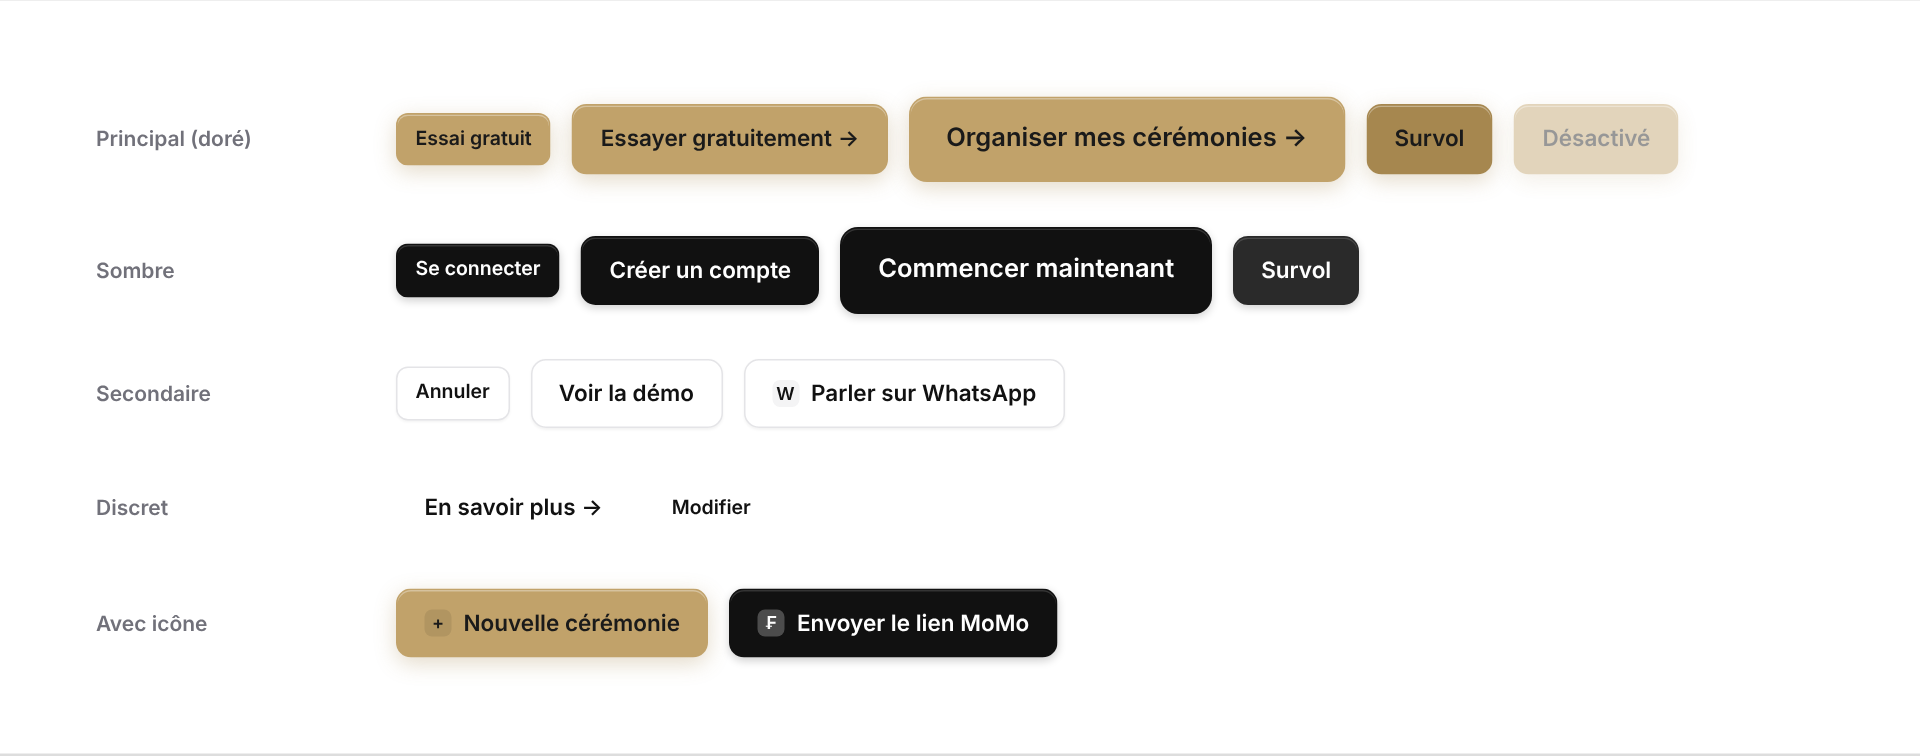
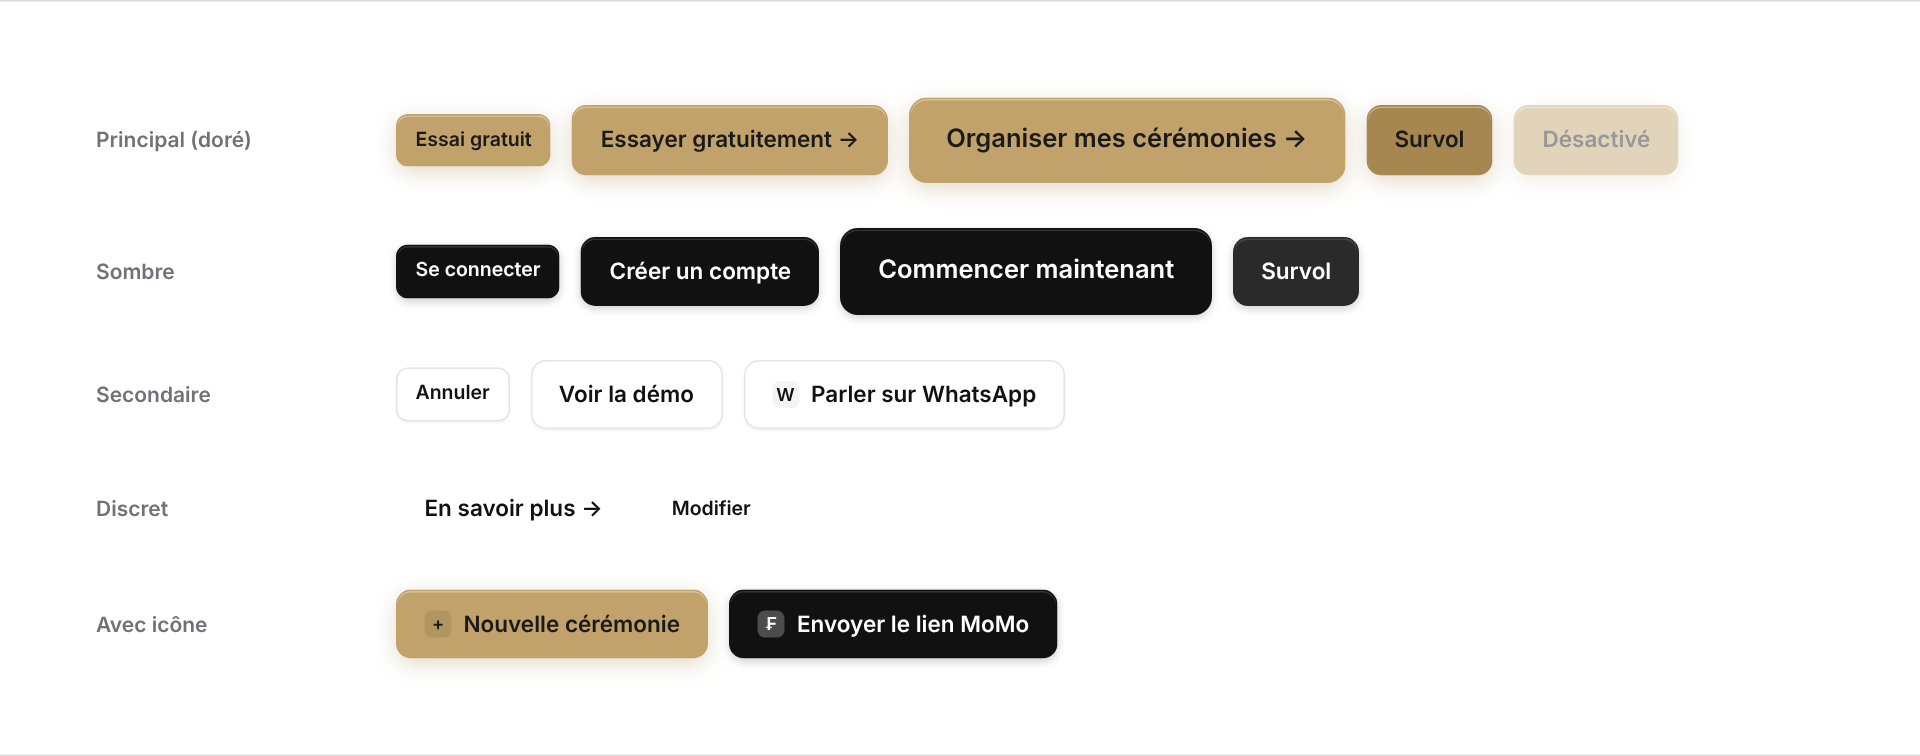
Ajoute le hero façon Framer et les tarifs façon Notion
Claude-Session: https://claude.ai/code/session_018MucsxxBUDKKkiUTaMvb6y

diff --git a/docs/inspirations/styles.html b/docs/inspirations/styles.html
@@ -128,6 +128,66 @@
   .b.disabled { opacity: .45; }
   .b .ic { width: 18px; height: 18px; border-radius: 5px; background: rgba(255,255,255,.25); display: inline-flex; align-items: center; justify-content: center; font-size: 12px; }
   .b.secondary .ic { background: #f4f4f5; } .b.gold .ic { background: rgba(0,0,0,.08); }
+
+  /* ---------- hero-framer : centré, titre géant, badge annonce, grand visuel produit en perspective ---------- */
+  #hero-framer { background: radial-gradient(900px 500px at 50% 0%, #f1e6cb 0%, var(--bg) 60%); padding: 96px 64px 0; text-align: center; overflow: hidden; }
+  .ann { display: inline-flex; align-items: center; gap: 10px; background: #fff; border: 1px solid var(--line); border-radius: 999px; padding: 6px 8px 6px 14px; font-size: 14px; font-weight: 600; box-shadow: 0 2px 8px rgba(60,45,20,.06); margin-bottom: 28px; }
+  .ann b { background: var(--ink); color: #fff; border-radius: 999px; padding: 3px 10px; font-size: 12px; }
+  #hero-framer h1 { font-size: 84px; line-height: 1; letter-spacing: -0.045em; font-weight: 800; max-width: 1000px; margin: 0 auto; }
+  #hero-framer h1 em { font-style: normal; background: linear-gradient(90deg, #a6874f, #d6b77a, #a6874f); -webkit-background-clip: text; background-clip: text; color: transparent; }
+  #hero-framer .sub { font-size: 21px; color: var(--muted); max-width: 640px; margin: 24px auto 34px; }
+  .hf-btns { display: flex; gap: 12px; justify-content: center; margin-bottom: 18px; }
+  .hf-btns .b { padding: 14px 24px; font-size: 16px; border-radius: 12px; }
+  .hf-proof { color: var(--muted); font-size: 14px; display: flex; gap: 18px; justify-content: center; margin-bottom: 64px; }
+  .hf-proof span::before { content: "✓ "; color: var(--gold-d); font-weight: 800; }
+  .stage { position: relative; height: 470px; perspective: 1800px; }
+  .browser { position: absolute; left: 44%; top: 0; width: 980px; transform: translateX(-50%) rotateX(14deg); transform-origin: top center; background: #fff; border: 1px solid var(--line); border-radius: 18px 18px 0 0; box-shadow: 0 -10px 60px rgba(60,45,20,.12), 0 40px 80px rgba(60,45,20,.18); text-align: left; overflow: hidden; }
+  .browser .chrome { height: 40px; border-bottom: 1px solid #f0ebdf; display: flex; align-items: center; gap: 7px; padding: 0 16px; }
+  .browser .chrome i { width: 11px; height: 11px; border-radius: 50%; background: #e7e0d0; }
+  .browser .chrome span { margin-left: 16px; background: #f6f3ec; border-radius: 8px; padding: 4px 14px; font-size: 12px; color: var(--muted); }
+  .app { display: grid; grid-template-columns: 190px 1fr; min-height: 440px; }
+  .app aside { background: #fbf9f4; border-right: 1px solid #f0ebdf; padding: 18px 14px; font-size: 13px; }
+  .app aside .lg { font-weight: 800; display: flex; gap: 8px; align-items: center; margin-bottom: 20px; } .app aside .lg span { width: 22px; height: 22px; border-radius: 7px; background: var(--gold); display: inline-flex; align-items: center; justify-content: center; font-size: 11px; }
+  .app aside a { display: block; padding: 8px 10px; border-radius: 8px; color: var(--muted); margin-bottom: 2px; } .app aside a.on { background: #f1e9d6; color: var(--ink); font-weight: 600; }
+  .app main { padding: 22px 24px; }
+  .app main h5 { font-size: 18px; margin-bottom: 14px; }
+  .kpis { display: grid; grid-template-columns: repeat(3, 1fr); gap: 12px; margin-bottom: 16px; }
+  .kpi { border: 1px solid #f0ebdf; border-radius: 12px; padding: 12px 14px; font-size: 12px; color: var(--muted); } .kpi b { display: block; font-size: 22px; color: var(--ink); letter-spacing: -0.02em; }
+  .list .it { display: grid; grid-template-columns: 70px 1fr auto; gap: 12px; align-items: center; padding: 10px 0; border-top: 1px solid #f3efe5; font-size: 13px; }
+  .list .d { background: #f6f1e4; border-radius: 10px; text-align: center; padding: 6px 0; font-weight: 700; font-size: 12px; } .list .d small { display: block; font-weight: 500; color: var(--muted); }
+  .list small.m { display: block; color: var(--muted); }
+  .mini-phone { position: absolute; right: 30px; top: 60px; width: 210px; height: 400px; background: #1a1a1a; border-radius: 32px; padding: 9px; box-shadow: 0 30px 60px rgba(40,30,10,.35); text-align: left; }
+  .mini-phone .scr { background: var(--bg); border-radius: 24px; height: 100%; padding: 18px 12px; font-size: 11px; }
+  .mini-phone .notif { background: #fff; border: 1px solid #f0dca6; border-radius: 14px; padding: 10px; margin-bottom: 10px; box-shadow: 0 6px 16px rgba(60,45,20,.08); }
+  .mini-phone .notif b { display: block; font-size: 12px; }
+
+  /* ---------- pricing-notion : sobre, cartes blanches côte à côte, tableau comparatif ---------- */
+  #pricing-notion { background: #fff; padding: 96px 120px; }
+  #pricing-notion .head { text-align: center; margin-bottom: 44px; }
+  #pricing-notion .head .fd { display: inline-block; font-size: 13px; font-weight: 700; background: #f3ecdc; color: var(--gold-d); border-radius: 999px; padding: 5px 12px; margin-bottom: 16px; }
+  #pricing-notion .head h2 { font-size: 48px; }
+  #pricing-notion .head p { color: var(--muted); font-size: 18px; margin-top: 10px; }
+  .pn-grid { display: grid; grid-template-columns: repeat(3, 1fr); gap: 0; border: 1px solid #e9e9e7; border-radius: 16px; overflow: hidden; }
+  .pn { padding: 30px 28px; border-right: 1px solid #e9e9e7; position: relative; }
+  .pn:last-child { border-right: none; }
+  .pn.rec { background: #fffcf4; }
+  .pn .ico { width: 36px; height: 36px; border-radius: 10px; background: #f4f2ee; display: inline-flex; align-items: center; justify-content: center; font-size: 18px; margin-bottom: 14px; }
+  .pn.rec .ico { background: var(--gold); }
+  .pn h3 { font-size: 20px; display: flex; align-items: center; gap: 10px; }
+  .pn h3 .rtag { font-size: 11px; font-weight: 700; background: var(--ink); color: #fff; border-radius: 6px; padding: 3px 8px; }
+  .pn .desc { color: #787774; font-size: 14px; margin: 6px 0 20px; min-height: 42px; }
+  .pn .pr { display: flex; align-items: baseline; gap: 8px; } .pn .pr b { font-size: 36px; letter-spacing: -0.03em; } .pn .pr s { color: #9b9a97; }
+  .pn .per { color: #787774; font-size: 13px; margin-bottom: 20px; }
+  .pn .b { width: 100%; justify-content: center; margin-bottom: 22px; }
+  .pn ul { list-style: none; font-size: 14px; display: grid; gap: 9px; color: #37352f; }
+  .pn li::before { content: "✓"; margin-right: 9px; color: var(--gold-d); font-weight: 800; }
+  .pn .inc { font-size: 13px; font-weight: 600; color: #787774; margin-bottom: 10px; }
+  .cmp { margin-top: 48px; width: 100%; border-collapse: collapse; font-size: 14px; }
+  .cmp th { text-align: left; font-size: 13px; color: #787774; font-weight: 600; padding: 10px 12px; border-bottom: 1px solid #e9e9e7; }
+  .cmp th:not(:first-child), .cmp td:not(:first-child) { text-align: center; width: 22%; }
+  .cmp td { padding: 12px; border-bottom: 1px solid #f1f1ef; color: #37352f; }
+  .cmp .sec td { font-weight: 700; padding-top: 22px; color: var(--ink); border-bottom: 1px solid #e9e9e7; }
+  .cmp .y { color: var(--gold-d); font-weight: 800; } .cmp .n { color: #c7c6c3; }
 </style>
 </head>
 <body>
@@ -231,6 +291,59 @@
     <div class="lbl">Discret</div><div class="bt-row"><span class="b ghost">En savoir plus →</span><span class="b ghost sm">Modifier</span></div>
     <div class="lbl">Avec icône</div><div class="bt-row"><span class="b gold"><span class="ic">+</span>Nouvelle cérémonie</span><span class="b primary"><span class="ic">₣</span>Envoyer le lien MoMo</span></div>
   </div>
+</div>
+
+
+<!-- SECTION : hero (style Framer) -->
+<div class="block" id="hero-framer">
+  <span class="ann">Nouveau : paiements MTN MoMo et Moov Money <b>Découvrir →</b></span>
+  <h1>Vos cérémonies, <em>enfin sous contrôle</em></h1>
+  <p class="sub">Réservations, devis, matériel, équipe et acomptes MoMo. L'outil des décorateurs, loueurs et traiteurs du Bénin.</p>
+  <div class="hf-btns"><span class="b gold">Essayer gratuitement 30 jours →</span><span class="b secondary">Voir la démo</span></div>
+  <div class="hf-proof"><span>Sans engagement</span><span>Sur téléphone</span><span>Support WhatsApp</span></div>
+  <div class="stage">
+    <div class="browser">
+      <div class="chrome"><i></i><i></i><i></i><span>app.lokafete.com</span></div>
+      <div class="app">
+        <aside><div class="lg"><span>✦</span>Lokafête</div><a class="on">Planning</a><a>Cérémonies</a><a>Devis</a><a>Matériel</a><a>Paiements</a><a>Équipe</a></aside>
+        <main><h5>Octobre</h5>
+          <div class="kpis"><div class="kpi">Cérémonies ce mois<b>12</b></div><div class="kpi">Encaissé<b>1 840 000 F</b></div><div class="kpi">À recevoir<b>420 000 F</b></div></div>
+          <div class="list">
+            <div class="it"><div class="d">SAM<small>11</small></div><div><b>Mariage — famille A.</b><small class="m">Décoration blanc et or · 300 invités · Cotonou</small></div><span class="st ok">Avance reçue</span></div>
+            <div class="it"><div class="d">SAM<small>11</small></div><div><b>Funérailles — famille K.</b><small class="m">200 chaises · 4 bâches · Abomey-Calavi</small></div><span class="st wait">Solde à recevoir</span></div>
+            <div class="it"><div class="d">DIM<small>12</small></div><div><b>Baptême — famille D.</b><small class="m">Traiteur · 80 invités · Porto-Novo</small></div><span class="st ok">Payé</span></div>
+          </div>
+        </main>
+      </div>
+    </div>
+    <div class="mini-phone"><div class="scr">
+      <div class="notif"><b>Paiement MoMo reçu</b>150 000 F · Avance famille A.</div>
+      <div class="notif"><b>Rappel envoyé</b>Solde famille K. sur WhatsApp</div>
+      <div class="notif"><b>Devis accepté</b>Baptême famille D.</div>
+    </div></div>
+  </div>
+</div>
+
+<!-- SECTION : tarifs (style Notion) -->
+<div class="block" id="pricing-notion">
+  <div class="head"><span class="fd">Offre membre fondateur · 50 places</span><h2>Des week-ends de cérémonies sans stress</h2><p>Payez par MoMo chaque mois. Sans engagement. Prix indicatifs, à valider.</p></div>
+  <div class="pn-grid">
+    <div class="pn"><div class="ico">🎈</div><h3>Essai</h3><p class="desc">Pour découvrir Lokafête avant de vous engager.</p><div class="pr"><b>0 F</b></div><div class="per">pendant 30 jours</div><span class="b secondary">Commencer l'essai</span><div class="inc">Inclus :</div><ul><li>Toutes les fonctions Pro</li><li>Jusqu'à 5 cérémonies</li><li>Aide sur WhatsApp</li></ul></div>
+    <div class="pn"><div class="ico">🪑</div><h3>Essentiel</h3><p class="desc">Pour le prestataire seul, un seul métier.</p><div class="pr"><b>[7 500 F]</b><s>10 000 F</s></div><div class="per">par mois</div><span class="b primary">Choisir Essentiel</span><div class="inc">Inclus :</div><ul><li>Planning et réservations</li><li>Devis et factures PDF</li><li>Paiements MoMo</li><li>Rappels WhatsApp</li></ul></div>
+    <div class="pn rec"><div class="ico">✦</div><h3>Pro <span class="rtag">Recommandé</span></h3><p class="desc">Pour les équipes et les prestataires multi-métiers.</p><div class="pr"><b>[17 500 F]</b><s>25 000 F</s></div><div class="per">par mois</div><span class="b gold">Choisir Pro</span><div class="inc">Tout Essentiel, plus :</div><ul><li>Stock et bons de sortie</li><li>Équipe et affectations</li><li>Bénéfice par cérémonie</li><li>Portfolio partageable</li><li>Support prioritaire</li></ul></div>
+  </div>
+  <table class="cmp">
+    <tr><th>Comparer les offres</th><th>Essai</th><th>Essentiel</th><th>Pro</th></tr>
+    <tr class="sec"><td colspan="4">Organisation</td></tr>
+    <tr><td>Planning et réservations</td><td class="y">✓</td><td class="y">✓</td><td class="y">✓</td></tr>
+    <tr><td>Devis et factures PDF</td><td class="y">✓</td><td class="y">✓</td><td class="y">✓</td></tr>
+    <tr><td>Stock de matériel et bons de sortie</td><td class="y">✓</td><td class="n">—</td><td class="y">✓</td></tr>
+    <tr class="sec"><td colspan="4">Paiements</td></tr>
+    <tr><td>Liens de paiement MoMo</td><td class="y">✓</td><td class="y">✓</td><td class="y">✓</td></tr>
+    <tr><td>Bénéfice par cérémonie</td><td class="y">✓</td><td class="n">—</td><td class="y">✓</td></tr>
+    <tr class="sec"><td colspan="4">Équipe</td></tr>
+    <tr><td>Membres de l'équipe</td><td>1</td><td>1</td><td>Illimité</td></tr>
+  </table>
 </div>
 
 </body>

diff --git a/docs/inspirations/notes.md b/docs/inspirations/notes.md
@@ -39,6 +39,8 @@ Ces images ne sont **pas** des captures des sites cités : ce sont des sections 
 
 | Fichier | Section de la page | À reprendre |
 |---|---|---|
+| `sections/hero-framer.png` | Hero (section 2) | Tout centré : badge d'annonce en pilule, titre géant serré avec la fin en dégradé doré, sous-titre, 2 boutons, 3 réassurances cochées, puis grand visuel produit en perspective (tableau de bord dans une fenêtre de navigateur) avec un téléphone qui déborde à droite et affiche des notifications |
+| `sections/pricing-notion.png` | Tarifs (section 11) | Sobre et blanc : 3 colonnes dans un même cadre (Essai gratuit, Essentiel, Pro recommandé sur fond doré très clair), icône par offre, prix barré, bouton pleine largeur, liste « Inclus », puis tableau comparatif par catégorie |
 | `sections/solution-descript.png` | Ta solution (section 5) | Rangées alternées texte / visuel produit, numéro + étiquette au-dessus du titre, visuels sur fonds pastel dégradés avec une carte d'interface (devis, calendrier, paiements) |
 | `sections/faq-whoop.png` | FAQ (section 13) | Mise en page de Whoop sur **fond clair** : titre géant en majuscules sur 2 couleurs (noir et doré) à gauche avec le lien WhatsApp, accordéon façon Cal.com à droite (carte blanche bordée, séparateurs fins, icônes rondes, question ouverte en doré) |
 | `sections/cta-linear.png` | CTA final (section 15) | Fond très sombre, halo doré en haut, grille discrète, titre centré en dégradé blanc → beige, bouton doré + bouton secondaire translucide |
@@ -46,6 +48,8 @@ Ces images ne sont **pas** des captures des sites cités : ce sont des sections 
 | `sections/footer-tally.png` | Pied de page (section 16) | Logo + phrase + « Fait avec ♥ à Cotonou » à gauche, 4 colonnes de liens, ligne du bas avec copyright et icônes sociales |
 | `composants/accordion-cal.png` | Composant accordéon (FAQ) | Conteneur blanc bordé et arrondi, séparateurs fins, chevron qui pivote, question ouverte sur fond légèrement grisé |
 | `composants/button-cal.png` | Tous les boutons | Variantes : principal doré, sombre, secondaire bordé, discret, avec icône ; 3 tailles ; états survol et désactivé |
+
+Le hero façon Framer remplace `02-hero.png` (choisir l'un des deux). Les chiffres du tableau de bord et les noms de familles sont des exemples fictifs de démonstration. La colonne « Essai » des tarifs reprend l'essai gratuit de 30 jours du brief ; les prix restent à valider.
 
 **Seul le CTA final a un fond sombre** : toutes les autres sections restent claires, pour que l'appel final ressorte.
 
